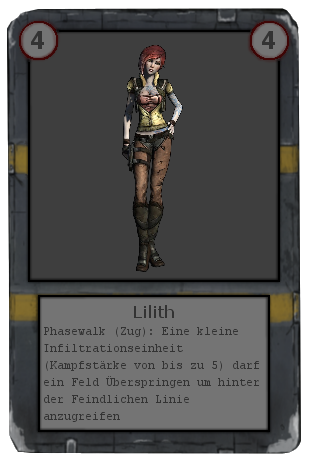
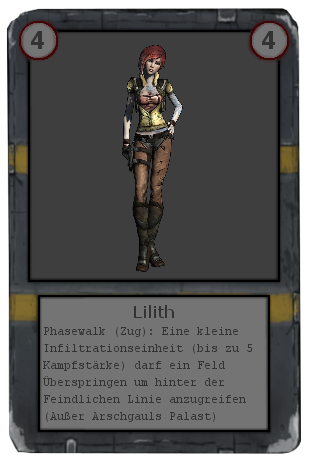
tested the hero effects of some heros (Lilith, Marcus, Tina, Zero; all seem to be working), improved some implementations of hero effects; changed the effect of Lilith so that she can't attack a palace; some more patches

diff --git a/src/net/jfabricationgames/bunkers_and_badasses/game_character/hero/Lilith.java b/src/net/jfabricationgames/bunkers_and_badasses/game_character/hero/Lilith.java
@@ -6,6 +6,7 @@ import java.util.stream.Collectors;
 import javax.swing.SpinnerNumberModel;
 
 import net.jfabricationgames.bunkers_and_badasses.game_board.Field;
+import net.jfabricationgames.bunkers_and_badasses.game_character.building.ArschgaulsPalace;
 import net.jfabricationgames.bunkers_and_badasses.game_frame.ErrorDialog;
 
 public class Lilith extends Hero {
@@ -30,14 +31,16 @@ public class Lilith extends Hero {
 		if (executionData == null) {
 			//send the start execution data with only the possible start fields
 			ExecutionData data = new ExecutionData();
-			data.setPossibleStartFields(game.getBoard().getFields().stream().filter(localPlayersField).filter(fieldEmpty.negate()).collect(Collectors.toList()));
+			data.setPossibleStartFields(game.getBoard().getFields().stream().filter(localPlayersField).
+					filter(fieldEmpty.negate()).collect(Collectors.toList()));
 			return data;
 		}
 		else {
 			if (executionData.getStartField() != null) {
 				//start field is chosen -> calculate the possible target fields
 				executionData.setPossibleTargetFields(executionData.getStartField().getNeighbours().parallelStream().
-						flatMap(f2 -> f2.getNeighbours().parallelStream()).collect(Collectors.toList()));
+						flatMap(f2 -> f2.getNeighbours().parallelStream()).distinct().filter(localPlayersField.negate()).
+						filter(hasArschgaulsPalace.negate()).collect(Collectors.toList()));
 				//remove all selected target fields that are not possible anymore
 				executionData.setTargetFields(executionData.getTargetFields().stream().
 						filter(field -> executionData.getPossibleTargetFields().contains(field)).collect(Collectors.toList()));
@@ -58,31 +61,43 @@ public class Lilith extends Hero {
 	@Override
 	public boolean execute(ExecutionData executionData) {
 		if (executionData.getStartField() == null) {
-			new ErrorDialog("Du musst schon ein Feld aussuchen aus dem Deine Truppen sich Bewegen sollen.\n\nDas ist keine freiwillige Aktion hier.").setVisible(true);
+			new ErrorDialog("Du musst schon ein Feld aussuchen aus dem Deine Truppen sich Bewegen sollen.\n\n"
+					+ "Das ist keine freiwillige Aktion hier.").setVisible(true);
 			return false;
 		}
 		if (executionData.getTargetFields().isEmpty()) {
-			new ErrorDialog("Du solltest ein Ziel aussuchen wenn du willst das deine Truppen sich bewegen.\n\nOder Du lässt sie einfach im Kreis rennen. Das kann auch lustig sein.\nNicht unbedingt zielführend... aber lustig.").setVisible(true);
+			new ErrorDialog("Du solltest ein Ziel aussuchen wenn du willst das deine Truppen sich bewegen.\n\n"
+					+ "Oder Du lässt sie einfach im Kreis rennen. Das kann auch lustig sein.\n"
+					+ "Nicht unbedingt zielführend... aber lustig.").setVisible(true);
 			return false;
 		}
 		if (executionData.getTargetFields().size() > 1) {
-			new ErrorDialog("Du kannst nicht in einem Zug zwei Gegner angreifen.\n\nLass den armen Schweinen doch auch mal ne Chance.").setVisible(true);
+			new ErrorDialog("Du kannst nicht in einem Zug zwei Gegner angreifen.\n\n"
+					+ "Lass den armen Schweinen doch auch mal ne Chance.").setVisible(true);
 			return false;
 		}
 		if (executionData.getStartFieldNormalTroops() + 2* executionData.getStartFieldBadassTroops() > 5) {
-			new ErrorDialog("Du kannst in diesem Angriff maximal Truppen der Stärke 5 mitnehmen.\n\nSchwertransport-Phasen ist nicht im Budget.").setVisible(true);
+			new ErrorDialog("Du kannst in diesem Angriff maximal Truppen der Stärke 5 mitnehmen.\n\n"
+					+ "Schwertransport-Phasen ist nicht im Budget.").setVisible(true);
+			return false;
+		}
+		if (executionData.getTargetFields().get(0).getBuilding() instanceof ArschgaulsPalace) {
+			new ErrorDialog("Du kannst nicht Arschgauls Palast angreifen.\n\n"
+					+ "Was soll der Scheiß?!\nDu erschreckst noch die Prinzessin!").setVisible(true);
 			return false;
 		}
 		if (executionData.getStartFieldNormalTroops() + 2* executionData.getStartFieldBadassTroops() <= 0) {
-			new ErrorDialog("Du solltest auch Truppen aussuchen wenn du willst dass die sich bewegen.\n\nDas ist keine freiwillige Aktion hier.").setVisible(true);
+			new ErrorDialog("Du solltest auch Truppen aussuchen wenn du willst dass die sich bewegen.\n\n"
+					+ "Das ist keine freiwillige Aktion hier.").setVisible(true);
 			return false;
 		}
 		Field start = executionData.getStartField();
 		Field target = executionData.getTargetFields().get(0);
 		int normalTroops = executionData.getStartFieldNormalTroops();
 		int badassTroops = executionData.getStartFieldBadassTroops();
-		addHeroEffectExecutionToStatistics(executionData);
 		game.getFightManager().startFight(start, target, normalTroops, badassTroops);
+		//choose the retreat field (as the start field) but keep to boolean to not chosen so it only works when the player selects no other retreat field
+		game.getFightManager().getCurrentFight().setRetreatField(start);
 		return true;
 	}
 }

diff --git a/src/net/jfabricationgames/bunkers_and_badasses/game_character/hero/Hero.java b/src/net/jfabricationgames/bunkers_and_badasses/game_character/hero/Hero.java
@@ -19,6 +19,7 @@ import com.jfabricationgames.toolbox.graphic.ImageLoader;
 import net.jfabricationgames.bunkers_and_badasses.game.Fight;
 import net.jfabricationgames.bunkers_and_badasses.game.Game;
 import net.jfabricationgames.bunkers_and_badasses.game_board.Field;
+import net.jfabricationgames.bunkers_and_badasses.game_character.building.ArschgaulsPalace;
 import net.jfabricationgames.bunkers_and_badasses.game_character.building.EmptyBuilding;
 import net.jfabricationgames.bunkers_and_badasses.game_command.Command;
 
@@ -61,9 +62,10 @@ public abstract class Hero implements Serializable {
 			anyMatch(f -> f.getAffiliation() != null && !f.getAffiliation().equals(game.getLocalUser()) && !f.getAffiliation().equals(field.getAffiliation()));
 	protected transient static final Predicate<Field> normalTroopsOnField = field -> field.getNormalTroops() > 0;
 	protected transient static final Predicate<Field> badassTroopsOnField = field -> field.getBadassTroops() > 0;
-	protected transient static final Predicate<Field> fieldEmpty = normalTroopsOnField.or(badassTroopsOnField);
+	protected transient static final Predicate<Field> fieldEmpty = normalTroopsOnField.or(badassTroopsOnField).negate();
 	protected transient static final Predicate<Field> hasCommand = field -> field.getCommand() != null;
 	protected transient static final Predicate<Field> hasBuilding = field -> !(field.getBuilding() instanceof EmptyBuilding);
+	protected transient static final Predicate<Field> hasArschgaulsPalace = field -> field.getBuilding() instanceof ArschgaulsPalace;
 	protected transient static final Predicate<Field> moreThanOneBandit = field -> field.getNormalTroops() > 1 || (field.getNormalTroops() == 1 && field.getBadassTroops() > 0);
 	protected transient static final Predicate<Field> moreThanTwoBandits = field -> field.getNormalTroops() > 2 || (field.getNormalTroops() == 2 && field.getBadassTroops() > 0);
 	
@@ -309,7 +311,7 @@ public abstract class Hero implements Serializable {
 	/**
 	 * Adds the execution to the statistics. This method should be called after the turn was successfully executed.
 	 */
-	protected void addHeroEffectExecutionToStatistics(ExecutionData executionData) {
+	public void addHeroEffectExecutionToStatistics(ExecutionData executionData) {
 		//TODO
 	}
 	

diff --git a/src/net/jfabricationgames/bunkers_and_badasses/game_frame/HeroEffectExecutionFrame.java b/src/net/jfabricationgames/bunkers_and_badasses/game_frame/HeroEffectExecutionFrame.java
@@ -19,8 +19,13 @@ import javax.swing.JList;
 import javax.swing.JPanel;
 import javax.swing.JScrollPane;
 import javax.swing.JSpinner;
+import javax.swing.JTextArea;
 import javax.swing.ListSelectionModel;
 import javax.swing.border.EmptyBorder;
+import javax.swing.event.ChangeEvent;
+import javax.swing.event.ChangeListener;
+import javax.swing.event.ListSelectionEvent;
+import javax.swing.event.ListSelectionListener;
 
 import com.jfabricationgames.toolbox.graphic.ImagePanel;
 
@@ -31,13 +36,9 @@ import net.jfabricationgames.bunkers_and_badasses.game_character.hero.Hero;
 import net.jfabricationgames.bunkers_and_badasses.game_character.hero.Hero.ExecutionComponent;
 import net.jfabricationgames.bunkers_and_badasses.game_character.hero.Hero.ExecutionData;
 import net.jfabricationgames.bunkers_and_badasses.game_character.hero.Hero.ExecutionType;
+import net.jfabricationgames.bunkers_and_badasses.game_character.hero.Lilith;
 import net.jfabricationgames.bunkers_and_badasses.game_command.Command;
 import net.miginfocom.swing.MigLayout;
-import javax.swing.JTextArea;
-import javax.swing.event.ListSelectionListener;
-import javax.swing.event.ListSelectionEvent;
-import javax.swing.event.ChangeListener;
-import javax.swing.event.ChangeEvent;
 
 public class HeroEffectExecutionFrame extends JFrame {
 	
@@ -375,7 +376,13 @@ public class HeroEffectExecutionFrame extends JFrame {
 				if (currentHero.execute(executionData)) {
 					//remove the hero from the players hand
 					game.getHeroCardManager().heroCardUsed(currentHero, game.getLocalUser());
-					game.getGameFrame().update();
+					if (!(currentHero instanceof Lilith)) {
+						//end the users turn and send the update (except for lilith because she starts a fight)
+						currentHero.addHeroEffectExecutionToStatistics(executionData);
+						game.getPlayerOrder().nextMove();
+						game.getTurnExecutionManager().commit();
+					}
+					game.getGameFrame().updateAllFrames();
 					//remove the current hero
 					currentHero = null;
 					executionData = null;

diff --git a/src/net/jfabricationgames/bunkers_and_badasses/game/HeroCardManager.java b/src/net/jfabricationgames/bunkers_and_badasses/game/HeroCardManager.java
@@ -60,10 +60,10 @@ public class HeroCardManager implements Serializable {
 	
 	private final int maxCardsPerPlayer;
 	
-	private Game game;
+	//private Game game;
 	
-	public HeroCardManager(Game game) {
-		this.game = game;
+	public HeroCardManager() {
+		//this.game = game;
 		maxCardsPerPlayer = Game.getGameVariableStorage().getMaxHerosCards();
 		heroCards = new HashMap<User, List<Hero>>();
 		heroCardsTaken = new HashMap<User, Boolean>();
@@ -163,7 +163,7 @@ public class HeroCardManager implements Serializable {
 			for (Class<? extends Hero> hero : HERO_CLASSES) {
 				try {
 					Hero h = hero.newInstance();
-					h.setGame(game);
+					//h.setGame(game);
 					heroCardStack.add(h);
 				}
 				catch (InstantiationException | IllegalAccessException e) {
@@ -217,7 +217,7 @@ public class HeroCardManager implements Serializable {
 	}
 	
 	protected void updateGame(Game game) {
-		this.game = game;
+		//this.game = game;
 		heroCardStack.forEach(hero -> hero.setGame(game));
 		heroCards.entrySet().stream().flatMap(entry -> entry.getValue().stream()).forEach(hero -> hero.setGame(game));
 	}

diff --git a/src/net/jfabricationgames/bunkers_and_badasses/game/Game.java b/src/net/jfabricationgames/bunkers_and_badasses/game/Game.java
@@ -56,6 +56,8 @@ public class Game implements Serializable {
 		pointManager.initialize(players);
 		gameTurnBonusManager = new GameTurnBonusManager(this);
 		gameTurnBonusManager.chooseTurnBonusForGame(players.size());
+		heroCardManager = new HeroCardManager();
+		heroCardManager.intitialize(players);
 		planManager = new UserPlanManager(this);
 		gameTurnGoalManager = new GameTurnGoalManager(this);
 		turnManager = new GameTurnManager(this);
@@ -68,8 +70,6 @@ public class Game implements Serializable {
 		statisticManager = new GameStatisticManager();
 		statisticManager.initialize(players);
 		skillProfileManager = new SkillProfileManager();
-		heroCardManager = new HeroCardManager(this);
-		heroCardManager.intitialize(players);
 		gameStore = ((BunkersAndBadassesClientInterpreter) client.getClientInterpreter()).getGameStore();
 		//initialize the GameFrame when the board is added.
 		//gameFrame = new GameFrame(this);

diff --git a/src/net/jfabricationgames/bunkers_and_badasses/game_character/hero/TinyTina.java b/src/net/jfabricationgames/bunkers_and_badasses/game_character/hero/TinyTina.java
@@ -30,7 +30,7 @@ public class TinyTina extends Hero {
 			//send the start execution data with only the possible start fields
 			ExecutionData data = new ExecutionData();
 			data.setPossibleTargetFields(game.getBoard().getFields().stream().filter(enemyPlayersField).filter(hasBuilding).
-					filter(nextToLocalPlayersField).collect(Collectors.toList()));
+					filter(hasArschgaulsPalace.negate()).filter(nextToLocalPlayersField).collect(Collectors.toList()));
 			return data;
 		}
 		else {
@@ -61,10 +61,6 @@ public class TinyTina extends Hero {
 			return false;
 		}
 		target.setBuilding(new EmptyBuilding());
-		addHeroEffectExecutionToStatistics(executionData);
-		game.getPlayerOrder().nextMove();
-		game.getTurnExecutionManager().commit();
-		game.getGameFrame().updateAllFrames();
 		return true;
 	}
 }

diff --git a/src/net/jfabricationgames/bunkers_and_badasses/game_character/hero/Scooter.java b/src/net/jfabricationgames/bunkers_and_badasses/game_character/hero/Scooter.java
@@ -93,10 +93,6 @@ public class Scooter extends Hero {
 		}
 		executionData.getTargetFieldsNormalTroops().forEach((target, val) -> game.getBoard().moveTroops(executionData.getStartField(), target, val.intValue(), 0));
 		executionData.getTargetFieldsBadassTroops().forEach((target, val) -> game.getBoard().moveTroops(executionData.getStartField(), target, 0, val.intValue()));
-		addHeroEffectExecutionToStatistics(executionData);
-		game.getPlayerOrder().nextMove();
-		game.getTurnExecutionManager().commit();
-		game.getGameFrame().updateAllFrames();
 		return true;
 	}
 }

diff --git a/src/net/jfabricationgames/bunkers_and_badasses/game_character/hero/Springs.java b/src/net/jfabricationgames/bunkers_and_badasses/game_character/hero/Springs.java
@@ -71,10 +71,6 @@ public class Springs extends Hero {
 		}
 		executionData.getTargetFieldsNormalTroops().forEach((target, val) -> game.getBoard().moveTroops(executionData.getStartField(), target, val.intValue(), 0));
 		executionData.getTargetFieldsBadassTroops().forEach((target, val) -> game.getBoard().moveTroops(executionData.getStartField(), target, 0, val.intValue()));
-		addHeroEffectExecutionToStatistics(executionData);
-		game.getPlayerOrder().nextMove();
-		game.getTurnExecutionManager().commit();
-		game.getGameFrame().updateAllFrames();
 		return true;
 	}
 }

diff --git a/src/net/jfabricationgames/bunkers_and_badasses/game_character/hero/Claptrap.java b/src/net/jfabricationgames/bunkers_and_badasses/game_character/hero/Claptrap.java
@@ -81,10 +81,6 @@ public class Claptrap extends Hero {
 		}
 		executionData.getTargetFieldsBadassTroops().forEach((field, value) -> field.removeBadassTroops(value));
 		executionData.getTargetFieldsBadassTroops().forEach((field, value) -> field.addNormalTroops(value));
-		addHeroEffectExecutionToStatistics(executionData);
-		game.getPlayerOrder().nextMove();
-		game.getTurnExecutionManager().commit();
-		game.getGameFrame().updateAllFrames();
 		return true;
 	}
 }

diff --git a/src/net/jfabricationgames/bunkers_and_badasses/game_character/hero/MrTorgue.java b/src/net/jfabricationgames/bunkers_and_badasses/game_character/hero/MrTorgue.java
@@ -81,10 +81,6 @@ public class MrTorgue extends Hero {
 		}
 		executionData.getTargetFieldsNormalTroops().forEach((field, value) -> field.removeNormalTroops(value));
 		executionData.getTargetFieldsNormalTroops().forEach((field, value) -> field.addBadassTroops(value));
-		addHeroEffectExecutionToStatistics(executionData);
-		game.getPlayerOrder().nextMove();
-		game.getTurnExecutionManager().commit();
-		game.getGameFrame().updateAllFrames();
 		return true;
 	}
 }

diff --git a/src/net/jfabricationgames/bunkers_and_badasses/game_frame/GameOverviewFrame.java b/src/net/jfabricationgames/bunkers_and_badasses/game_frame/GameOverviewFrame.java
@@ -394,7 +394,7 @@ public class GameOverviewFrame extends JFrame {
 		for (Field field : game.getBoard().getFields()) {
 			if (field.getAffiliation() != null && field.getAffiliation().equals(selectedUser)) {
 				for (Field neighbour : field.getNeighbours()) {
-					if (neighbour.getAffiliation().equals(player)) {
+					if (neighbour.getAffiliation() != null && neighbour.getAffiliation().equals(player)) {
 						borders++;
 					}
 				}

diff --git a/src/net/jfabricationgames/bunkers_and_badasses/game_frame/FightExecutionFrame.java b/src/net/jfabricationgames/bunkers_and_badasses/game_frame/FightExecutionFrame.java
@@ -887,7 +887,7 @@ public class FightExecutionFrame extends JFrame implements HeroSelectionListener
 		}
 		else {
 			if (fieldRetreadModel.isEmpty()) {
-				fight.setRetreatField(null);
+				//fight.setRetreatField(null);//the value should already be null so don't change it because some heros (e.g. Lilith can change it)
 				fight.setRetreatFieldChosen(true);
 				game.getFightManager().update();
 			}
